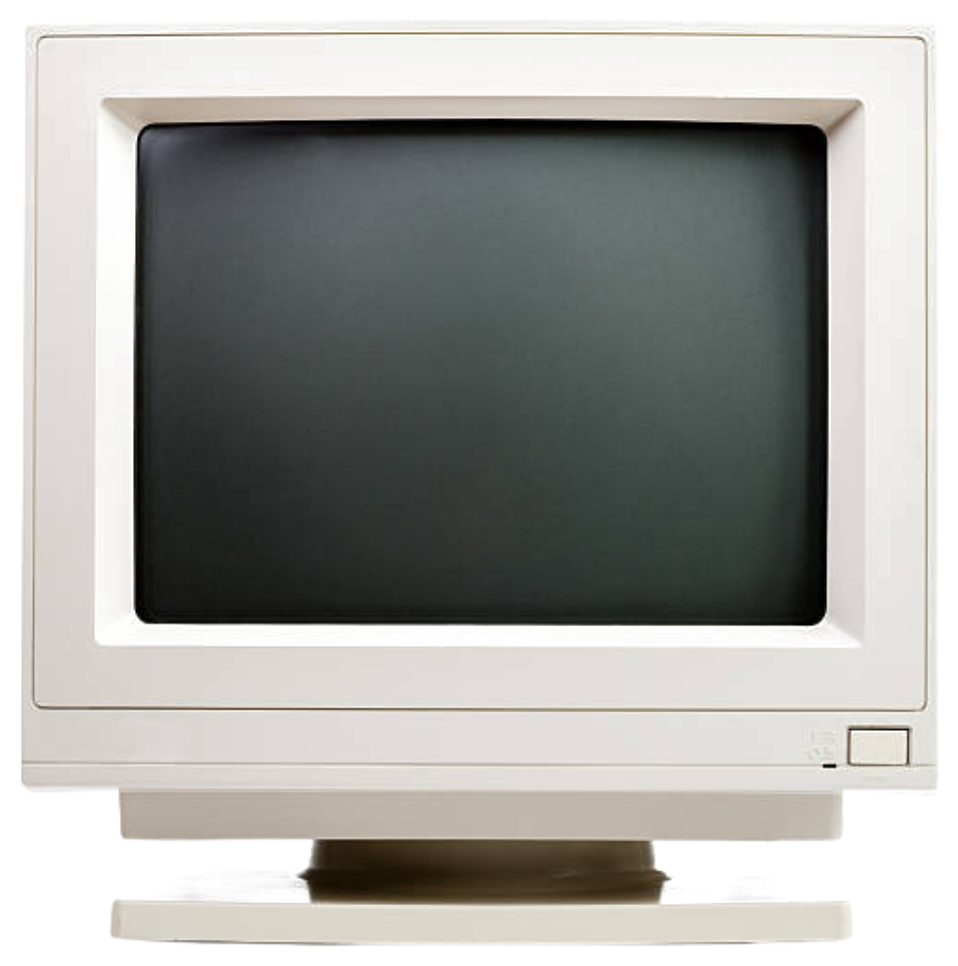
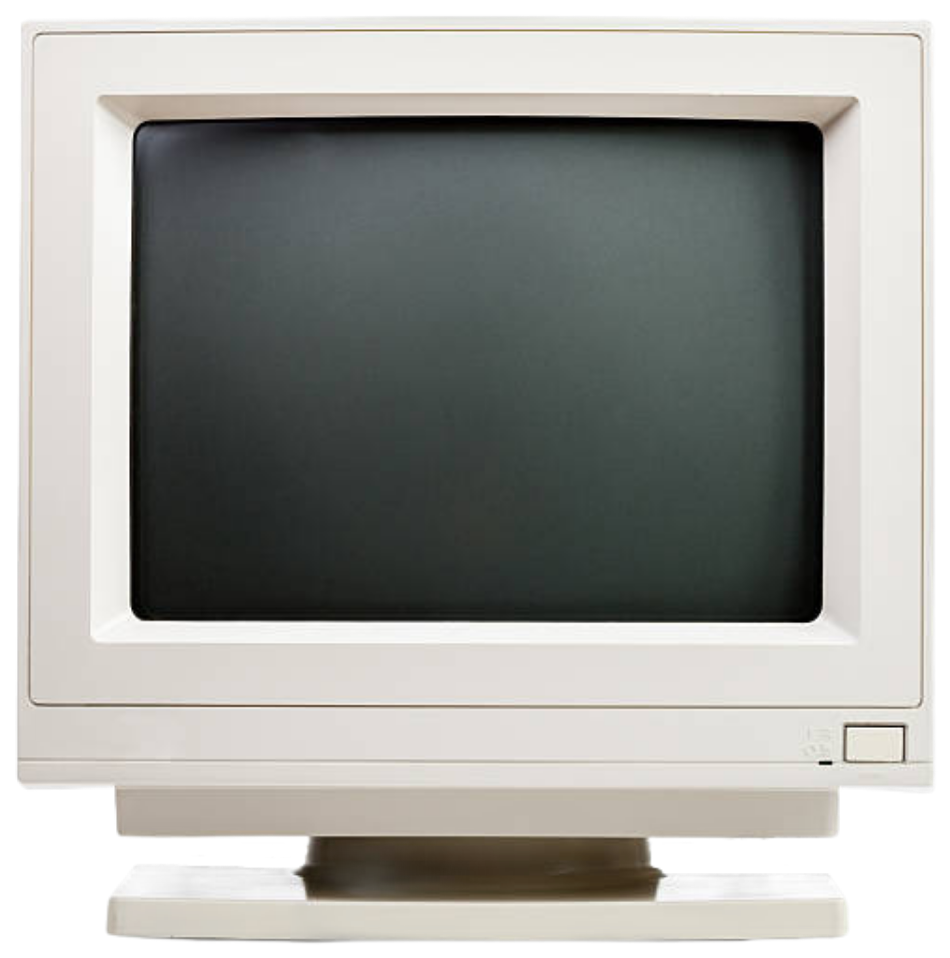
Fix the monitor cutout's quality with proper ML background removal
The manual chroma-key script was speckling/haloing the casing because
its beige tone sits too close to the studio backdrop's grey for
naive color-distance thresholding. Replaced it with rembg (U2Net) for
a clean silhouette, then trimmed the transparent padding and
re-measured the screen glass box for the new asset.

diff --git a/src/components/home/retro-terminal.tsx b/src/components/home/retro-terminal.tsx
@@ -3,7 +3,7 @@
 import Image from "next/image";
 
 // Screen glass measured directly off the photo (public/images/old-computer2-cutout.png).
-const SCREEN = { left: 15.5, top: 13.8, width: 69.3, height: 48.9 };
+const SCREEN = { left: 14.7, top: 13.1, width: 70.9, height: 45.7 };
 
 const numberInputReset =
   "[appearance:textfield] [&::-webkit-inner-spin-button]:appearance-none [&::-webkit-outer-spin-button]:appearance-none";
@@ -26,7 +26,7 @@ export function RetroTerminal({
   margin,
 }: Props) {
   return (
-    <div className="relative" style={{ width: 500, height: (500 * 966) / 958 }}>
+    <div className="relative" style={{ width: 500, height: (500 * 958) / 950 }}>
       <Image
         src="/images/old-computer2-cutout.png"
         alt="Old computer monitor"
